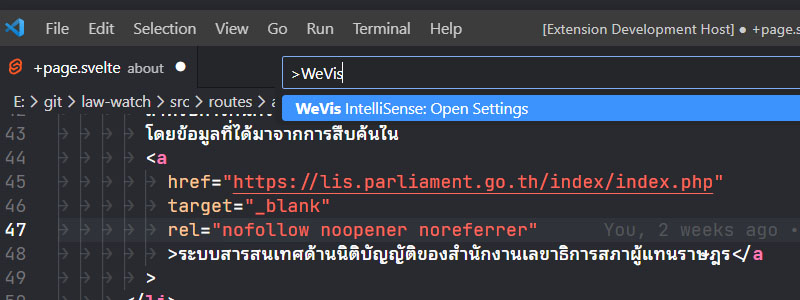
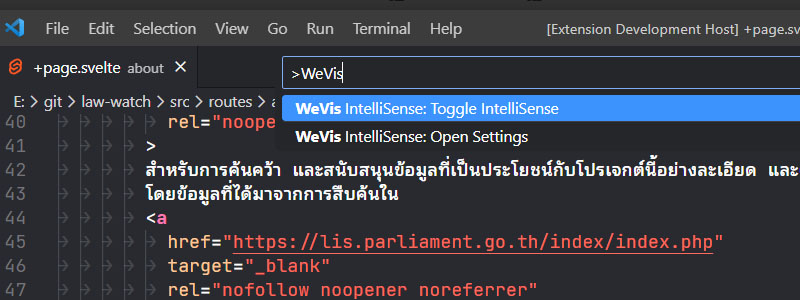
docs: update readme/changelog

diff --git a/README.md b/README.md
@@ -2,11 +2,9 @@
 
 # WeVis IntelliSense
 
-![MIT License](https://img.shields.io/github/license/rootEnginear/wevis-intellisense)
-![GitHub issues](https://img.shields.io/github/issues/rootEnginear/wevis-intellisense)
-
-<!-- ![Visual Studio Marketplace Version](https://img.shields.io/visual-studio-marketplace/v/rootenginear.wevis-intellisense) -->
-<!-- ![Visual Studio Marketplace Last Updated](https://img.shields.io/visual-studio-marketplace/last-updated/rootenginear.wevis-intellisense) -->
+[![MIT License](https://img.shields.io/github/license/rootEnginear/wevis-intellisense)](https://github.com/rootEnginear/wevis-intellisense)
+[![Visual Studio Marketplace Version](https://img.shields.io/visual-studio-marketplace/v/rootenginear.wevis-intellisense)](https://marketplace.visualstudio.com/items?itemName=rootenginear.wevis-intellisense)
+[![Visual Studio Marketplace Last Updated](https://img.shields.io/visual-studio-marketplace/last-updated/rootenginear.wevis-intellisense)](https://marketplace.visualstudio.com/items?itemName=rootenginear.wevis-intellisense)
 
 VSCode IntelliSense for [WeVis Design System](https://wevisdemo.github.io/design-systems/).
 
@@ -22,11 +20,11 @@ This extension also works with Emmet, so you can type `.` and it will start sugg
 
 ![Autosuggestion in Emmet](./assets/emmet.jpg)
 
-To provide a clear status whether the extension is available in the file, if the autosuggestion is available in a particular file, there will be a small "Wv" at the status bar.
+To provide a clear indication whether the extension is available for a file, A small "WV" will appear at the status bar when available. You can click on it to quickly enable/disable the autosuggest functionality. When disabled, it will be in warning color (typically dark yellow).
 
 ![Extension availability shown in the status bar](./assets/status.jpg)
 
-To open the extension's settings, you can use a command "WeVis IntelliSense: Open Settings" via the command palette (`ctrl/cmd + shift + p`), or pressing the text "Wv" at the status bar.
+The extension shipped with several commands, which you can use them via the command palette (`Ctrl/Cmd + Shift + P`).
 
 ![Open extension settings using the command palette](./assets/command.jpg)
 
@@ -34,15 +32,18 @@ For upcoming features and plan, please see [Planned Features](#planned-features)
 
 ## Extension Settings
 
-There are 3 settings available in this extension:
+There are 4 settings available in this extension:
 
-- `wevis-intellisense.allowEmmet`
+- `wevisIntellisense.enableIntellisense`
+  - Enable IntelliSense in available file.
+  - Default: `true`
+- `wevisIntellisense.allowEmmet`
   - Allow suggestion with Emmet abbreviation.
   - Default: `true`
-- `wevis-intellisense.htmlLanguages`
+- `wevisIntellisense.htmlLanguages`
   - A list of HTML based languages where suggestions are enabled.
   - Default: `["html", "vue", "vue-html", "svelte", "astro"]`
-- `wevis-intellisense.javaScriptLanguages`
+- `wevisIntellisense.javascriptLanguages`
   - A list of JavaScript based languages where suggestions are enabled.
   - Default: `["javascript", "javascriptreact", "typescriptreact"]`
 
@@ -54,6 +55,6 @@ There are 3 settings available in this extension:
   - [ ] Cookbook Snippets
 - [ ] Component Generator
 
-## Release Notes
+## Changelogs
 
-- **1.0.0**: First release with basic suggest functionality.
+Updates and changelogs can be found in the [changelog file](./CHANGELOG.md).

diff --git a/CHANGELOG.md b/CHANGELOG.md
@@ -1,9 +1,50 @@
-# Change Log
+# Changelog
 
 All notable changes to the "wevis-intellisense" extension will be documented in this file.
 
-Check [Keep a Changelog](http://keepachangelog.com/) for recommendations on how to structure this file.
+The format is based on [Keep a Changelog](https://keepachangelog.com/en/1.0.0/),
+and this project adheres to [Semantic Versioning](https://semver.org/spec/v2.0.0.html).
 
-## [Unreleased]
+## [1.1.0] — 2022-11-19
 
-- Initial release
+### Added
+
+- Autosuggest can be toggled in valid files using command "WeVis IntelliSense: Toggle IntelliSense" (`wevis-intellisense.toggleIntelliSense`). Clicking at status item now also run this command.
+- Add an extension setting:
+  - `wevisIntellisense.enableIntellisense`
+    - Enable IntelliSense in available file.
+    - Default: `true`
+- Status item now shows disabled autosuggest status with `statusBarItem.warningBackground` color (typically dark yellow).
+
+### Changed
+
+- Status item now **toggles autosuggest** instead of **open extension settings**.
+- Setting ids have been changed:
+  - `wevis-intellisense.allowEmmet` -> `wevisIntellisense.allowEmmet`
+  - `wevis-intellisense.htmlLanguages` -> `wevisIntellisense.htmlLanguages`
+  - `wevis-intellisense.javaScriptLanguages` -> `wevisIntellisense.javascriptLanguages`
+
+### Fixed
+
+- Dispose `commands` and `wvStatusItem` on deactivate.
+
+## [1.0.0] — 2022-11-18
+
+### Added
+
+- Autosuggest CSS classes in languages:
+  - As HTML: `html`, `vue`, `vue-html`, `svelte`, `astro`
+  - As JavaScript: `javascript`, `javascriptreact`, `typescriptreact`
+- Autosuggest CSS classes in Emmet.
+- Show autosuggest availability in status bar. When clicking, it will open the extension settings.
+- Add command "WeVis IntelliSense: Open Settings" (`wevis-intellisense.openSettings`)
+- Add extension settings:
+  - `wevisIntellisense.allowEmmet`
+    - Allow suggestion with Emmet abbreviation.
+    - Default: `true`
+  - `wevisIntellisense.htmlLanguages`
+    - A list of HTML based languages where suggestions are enabled.
+    - Default: `["html", "vue", "vue-html", "svelte", "astro"]`
+  - `wevisIntellisense.javascriptLanguages`
+    - A list of JavaScript based languages where suggestions are enabled.
+    - Default: `["javascript", "javascriptreact", "typescriptreact"]`
